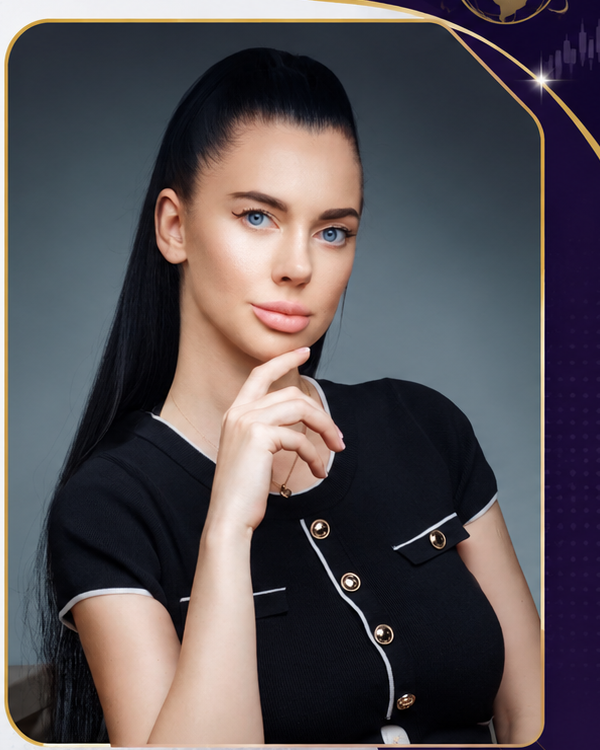
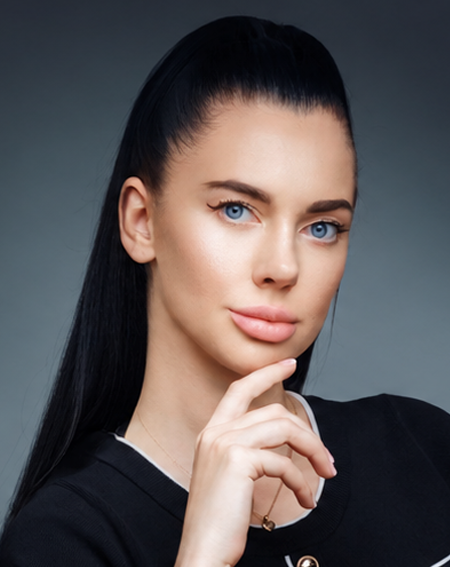
feat: remove Carolina Barandiaran and Roksolana Trach from speakers and update Roksolana Trach judge portrait with uploaded photo

diff --git a/src/components/events/HackathonSections.jsx b/src/components/events/HackathonSections.jsx
@@ -39,40 +39,6 @@ const HackathonSections = () => {
   // ── Keynote & Expert Speakers ───────────────────────────────
   const speakersList = [
     {
-      name: 'MA Carolina Beatriz Barandiaran',
-      role: 'Professor, UNICEN | Senior IEEE Member & Award-Winning AI Researcher',
-      org: 'Universidad Nacional del Centro de la Provincia de Buenos Aires (UNICEN)',
-      location: 'Buenos Aires, Argentina',
-      displayTitle: 'Professor, UNICEN • Senior IEEE Member',
-      topic: 'AI Automation, Scalable Microservices & Resilient Cloud Architectures in Modern Healthcare & Finance',
-      bio: 'MA Carolina Beatriz Barandiaran is a Professor at the College of Humanities, UNICEN, Argentina, a Senior IEEE Member, and an award-winning AI researcher with 18+ years of global technology leadership. Recipient of the AAAS Excellent Researcher Award and the 2024 Global Recognition Award, she has authored "AI and Microservices" (Apress) and architected patented AI solutions used by 50,000+ global users. She has led major transformations and cloud architectures for global enterprises including LTIMindtree, Bank of America, Infosys, and TCS.',
-      photo: carolinaPhoto,
-      photoPosition: 'center 15%',
-      photoScale: 1.15,
-      confirmed: true,
-      color: '#00dcb4',
-      glow: 'rgba(0,220,180,0.2)',
-      tags: ['AI Automation', 'Microservices', 'Cloud Platforms', 'Enterprise AI', 'Distributed Systems'],
-      initials: 'CB'
-    },
-    {
-      name: 'Roksolana Trach',
-      role: 'Independent Crypto Analyst & International Financial Market Analyst',
-      org: 'Global Crypto & Financial Markets Research',
-      location: 'USA',
-      displayTitle: 'Independent Crypto Analyst & International Financial Market Analyst',
-      topic: 'New Ideas Become Safe Systems: Blockchain Innovation, Digital Assets & Financial Market Resilience',
-      bio: 'Roksolana Trach is a prominent Independent Crypto Analyst and International Financial Market Analyst based in the United States. Specializing in cryptocurrency market intelligence, decentralized finance (DeFi), Web3 innovations, and macroeconomic indicators, she provides critical strategic insights into digital asset ecosystems. Her research and keynote focus, "New Ideas Become Safe Systems," emphasizes risk mitigation, market forecasting, and building secure, scalable financial technology frameworks.',
-      photo: roksolanaPhoto,
-      photoPosition: 'center 15%',
-      photoScale: 1.15,
-      confirmed: true,
-      color: '#d2aa64',
-      glow: 'rgba(210,170,100,0.2)',
-      tags: ['Cryptocurrency', 'Blockchain', 'Web3 & DeFi', 'Financial Markets', 'Risk Assessment'],
-      initials: 'RT'
-    },
-    {
       name: 'Engr. Fortune Chibuike Onyia (MNSE)',
       role: 'Lecturer, Civil Engineering Department & Entrepreneur',
       org: 'Federal Polytechnic Oko',

diff --git a/src/data/eventsData.js b/src/data/eventsData.js
@@ -459,18 +459,6 @@ export const eventsData = [
     ],
     "speakers": [
       {
-        "name": "MA Carolina Beatriz Barandiaran",
-        "role": "Professor, UNICEN | Senior IEEE Member & Award-Winning AI Researcher",
-        "topic": "AI Automation, Scalable Microservices & Resilient Cloud Architectures in Modern Healthcare & Finance",
-        "bio": "Professor at UNICEN, Argentina, Senior IEEE Member, and award-winning AI researcher with 18+ years of global technology leadership. Author of 'AI and Microservices' (Apress) and former enterprise transformation architect for Bank of America, Infosys, and TCS."
-      },
-      {
-        "name": "Roksolana Trach",
-        "role": "Independent Crypto Analyst & International Financial Market Analyst",
-        "topic": "New Ideas Become Safe Systems: Blockchain Innovation, Digital Assets & Financial Market Resilience",
-        "bio": "Independent Crypto Analyst and International Financial Market Analyst based in the USA. Specialist in cryptocurrency intelligence, Web3 technologies, DeFi architectures, and macroeconomic market resilience."
-      },
-      {
         "name": "Engr. Fortune Chibuike Onyia (MNSE)",
         "role": "Lecturer, Civil Engineering Dept., Federal Polytechnic Oko & Entrepreneur",
         "topic": "Sustainable Technology",
